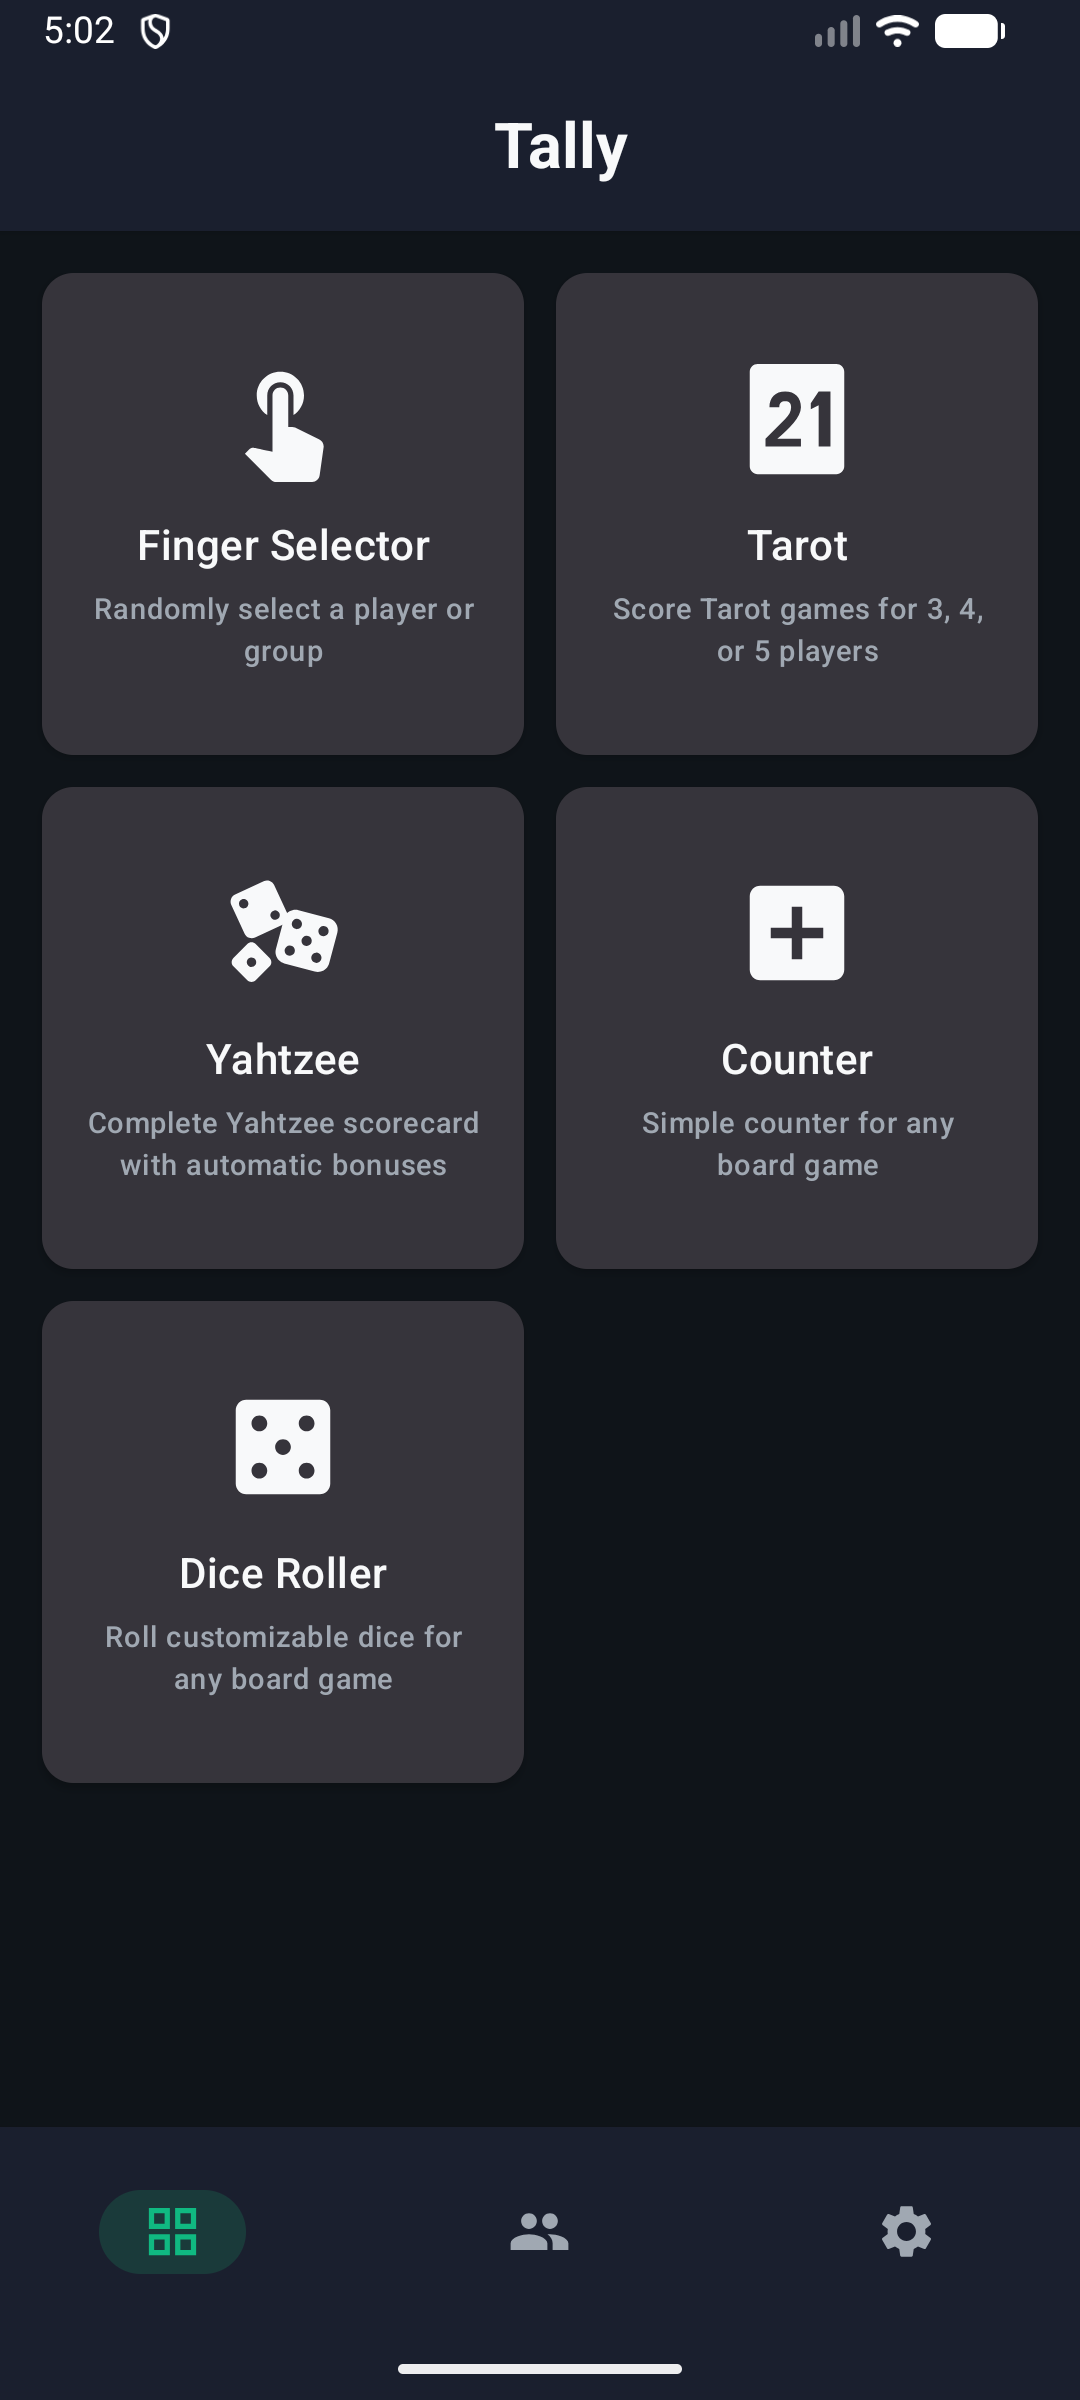
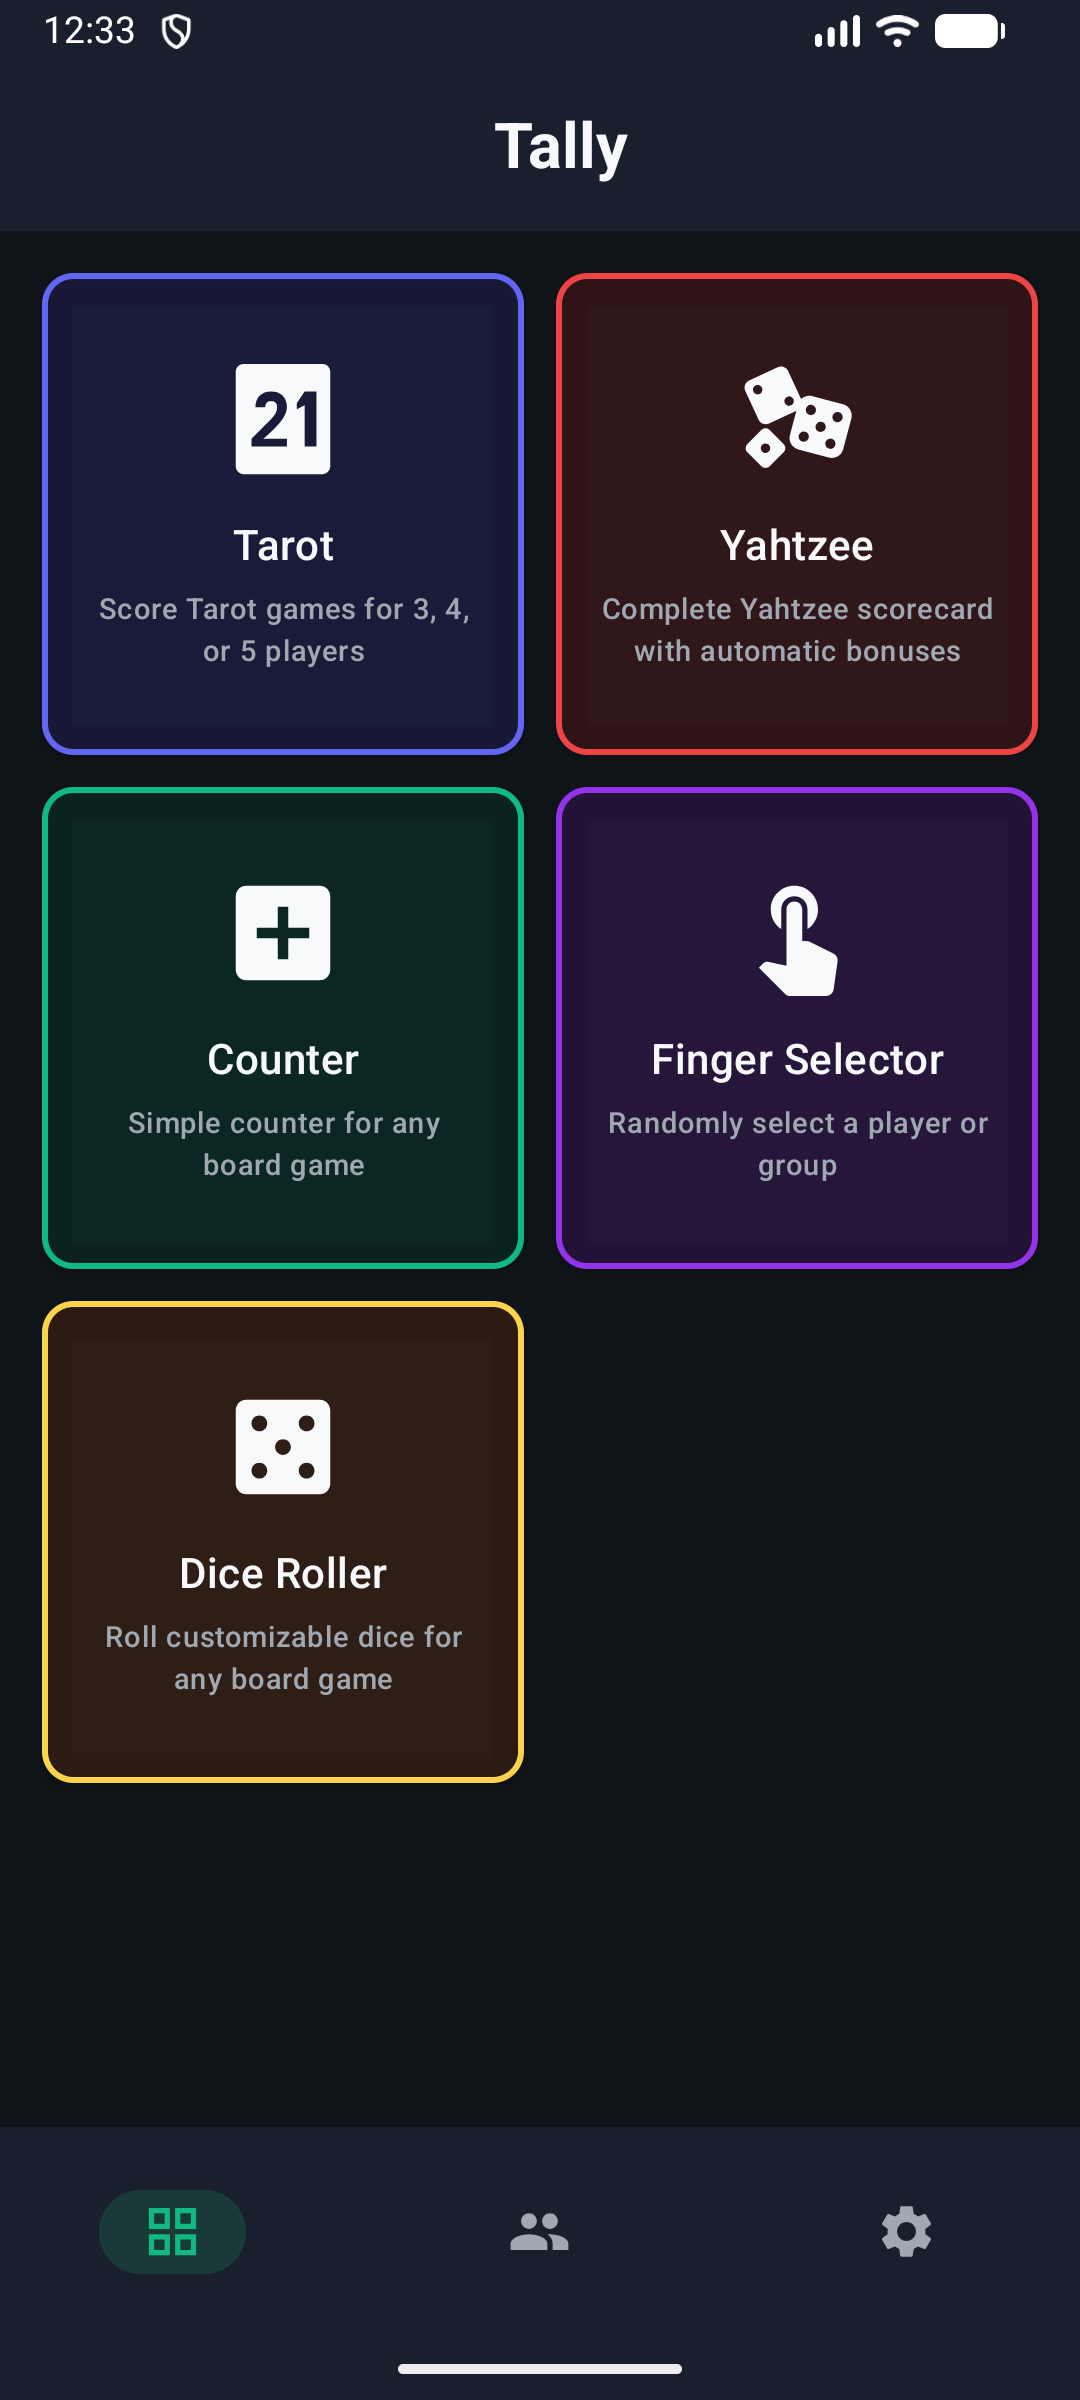
ui: Add colors in the cards of the homescreen

diff --git a/composeApp/src/commonMain/kotlin/io/github/m0nkeysan/tally/ui/screens/home/HomeScreen.kt b/composeApp/src/commonMain/kotlin/io/github/m0nkeysan/tally/ui/screens/home/HomeScreen.kt
@@ -3,6 +3,7 @@ package io.github.m0nkeysan.tally.ui.screens.home
 import androidx.compose.animation.core.animateDpAsState
 import androidx.compose.animation.core.animateFloatAsState
 import androidx.compose.foundation.gestures.detectDragGesturesAfterLongPress
+import androidx.compose.foundation.isSystemInDarkTheme
 import androidx.compose.foundation.layout.Arrangement
 import androidx.compose.foundation.layout.Box
 import androidx.compose.foundation.layout.Column
@@ -17,6 +18,7 @@ import androidx.compose.foundation.lazy.grid.GridCells
 import androidx.compose.foundation.lazy.grid.LazyVerticalGrid
 import androidx.compose.foundation.lazy.grid.itemsIndexed
 import androidx.compose.foundation.lazy.grid.rememberLazyGridState
+import androidx.compose.material3.CardDefaults
 import androidx.compose.material3.CenterAlignedTopAppBar
 import androidx.compose.material3.Icon
 import androidx.compose.material3.MaterialTheme
@@ -33,6 +35,7 @@ import androidx.compose.ui.Modifier
 import androidx.compose.ui.draw.scale
 import androidx.compose.ui.draw.shadow
 import androidx.compose.ui.geometry.Offset
+import androidx.compose.ui.graphics.Color
 import androidx.compose.ui.graphics.graphicsLayer
 import androidx.compose.ui.input.pointer.pointerInput
 import androidx.compose.ui.text.font.FontWeight
@@ -66,6 +69,7 @@ import io.github.m0nkeysan.tally.ui.components.GameCard
 import io.github.m0nkeysan.tally.ui.components.TarotIcon
 import io.github.m0nkeysan.tally.ui.components.YahtzeeIcon
 import org.jetbrains.compose.resources.stringResource
+import io.github.m0nkeysan.tally.core.domain.model.AppTheme as AppThemeModel
 
 @Composable
 fun HomeScreen(
@@ -74,6 +78,13 @@ fun HomeScreen(
     viewModel: HomeViewModel = viewModel { HomeViewModel() }
 ) {
     val cardOrder by viewModel.cardOrder.collectAsState()
+    val themePreference by viewModel.themePreference.collectAsState()
+    
+    val isDarkTheme = when (themePreference) {
+        AppThemeModel.DARK -> true
+        AppThemeModel.LIGHT -> false
+        AppThemeModel.SYSTEM_DEFAULT -> isSystemInDarkTheme()
+    }
 
     var localCardOrder by remember { mutableStateOf<List<String>?>(null) }
 
@@ -239,7 +250,20 @@ fun HomeScreen(
                                     if (draggedItemId == null) {
                                         onNavigateTo(feature.route)
                                     }
-                                }
+                                },
+                                borderColor = if (isDarkTheme) {
+                                    feature.colors.borderDark
+                                } else {
+                                    feature.colors.borderLight
+                                },
+                                backgroundColor = if (isDarkTheme) {
+                                    feature.colors.backgroundDark.copy(alpha = 0.3f)
+                                } else {
+                                    feature.colors.backgroundLight.copy(alpha = 0.2f)
+                                },
+                                elevation = CardDefaults.cardElevation(
+                                    defaultElevation = if (isDarkTheme) 2.dp else 0.dp
+                                )
                             )
                         }
                     }
@@ -249,12 +273,63 @@ fun HomeScreen(
     }
 }
 
+/**
+ * Color scheme for game cards in light and dark themes
+ */
+data class GameColors(
+    val borderLight: Color,
+    val backgroundLight: Color,
+    val borderDark: Color,
+    val backgroundDark: Color
+)
+
+/**
+ * Predefined color schemes for each game card
+ */
+private object GameCardColors {
+    val fingerSelector = GameColors(
+        borderLight = Color(0xFF9333EA),      // Purple-600
+        backgroundLight = Color(0xFFF3E8FF),  // Purple-100
+        borderDark = Color(0xFF9333EA),       // Purple-600
+        backgroundDark = Color(0xFF581C87)    // Purple-900
+    )
+    
+    val tarot = GameColors(
+        borderLight = Color(0xFF4F46E5),      // Indigo-600
+        backgroundLight = Color(0xFFE0E7FF),  // Indigo-100
+        borderDark = Color(0xFF6366F1),       // Indigo-500 (brighter)
+        backgroundDark = Color(0xFF312E81)    // Indigo-900
+    )
+    
+    val yahtzee = GameColors(
+        borderLight = Color(0xFFDC2626),      // Red-600
+        backgroundLight = Color(0xFFFEE2E2),  // Red-100
+        borderDark = Color(0xFFEF4444),       // Red-500 (brighter)
+        backgroundDark = Color(0xFF7F1D1D)    // Red-900
+    )
+    
+    val counter = GameColors(
+        borderLight = Color(0xFF10B981),      // Emerald-500
+        backgroundLight = Color(0xFFD1FAE5),  // Emerald-100
+        borderDark = Color(0xFF10B981),       // Emerald-500
+        backgroundDark = Color(0xFF064E3B)    // Emerald-900
+    )
+    
+    val diceRoller = GameColors(
+        borderLight = Color(0xFFF59E0B),      // Amber-500
+        backgroundLight = Color(0xFFFEF3C7),  // Amber-100
+        borderDark = Color(0xFFFCD34D),       // Amber-400 (brighter)
+        backgroundDark = Color(0xFF78350F)    // Amber-900
+    )
+}
+
 data class GameFeature(
     val id: String,
     val icon: @Composable () -> Unit,
     val title: String,
     val description: String,
-    val route: Route
+    val route: Route,
+    val colors: GameColors
 )
 
 @Composable
@@ -272,21 +347,24 @@ private fun getGameFeatureMap() = mapOf(
         },
         title = stringResource(Res.string.home_title_finger_selector),
         description = stringResource(Res.string.desc_finger_selector),
-        route = FingerSelectorRoute
+        route = FingerSelectorRoute,
+        colors = GameCardColors.fingerSelector
     ),
     "tarot" to GameFeature(
         id = "tarot",
         icon = { TarotIcon() },
         title = stringResource(Res.string.game_tarot),
         description = stringResource(Res.string.desc_tarot),
-        route = TarotRoute
+        route = TarotRoute,
+        colors = GameCardColors.tarot
     ),
     "yahtzee" to GameFeature(
         id = "yahtzee",
         icon = { YahtzeeIcon() },
         title = stringResource(Res.string.game_yahtzee),
         description = stringResource(Res.string.desc_yahtzee),
-        route = YahtzeeRoute
+        route = YahtzeeRoute,
+        colors = GameCardColors.yahtzee
     ),
     "counter" to GameFeature(
         id = "counter",
@@ -301,7 +379,8 @@ private fun getGameFeatureMap() = mapOf(
         },
         title = stringResource(Res.string.game_counter),
         description = stringResource(Res.string.desc_counter),
-        route = CounterRoute
+        route = CounterRoute,
+        colors = GameCardColors.counter
     ),
     "dice_roller" to GameFeature(
         id = "dice_roller",
@@ -316,6 +395,7 @@ private fun getGameFeatureMap() = mapOf(
         },
         title = stringResource(Res.string.game_dice),
         description = stringResource(Res.string.desc_dice),
-        route = DiceRollerRoute
+        route = DiceRollerRoute,
+        colors = GameCardColors.diceRoller
     )
 )

diff --git a/composeApp/src/commonMain/kotlin/io/github/m0nkeysan/tally/ui/components/GameCard.kt b/composeApp/src/commonMain/kotlin/io/github/m0nkeysan/tally/ui/components/GameCard.kt
@@ -1,5 +1,6 @@
 package io.github.m0nkeysan.tally.ui.components
 
+import androidx.compose.foundation.border
 import androidx.compose.foundation.clickable
 import androidx.compose.foundation.layout.Arrangement
 import androidx.compose.foundation.layout.Box
@@ -15,12 +16,14 @@ import androidx.compose.material.icons.Icons
 import androidx.compose.material.icons.filled.Casino
 import androidx.compose.material3.Card
 import androidx.compose.material3.CardDefaults
+import androidx.compose.material3.CardElevation
 import androidx.compose.material3.Icon
 import androidx.compose.material3.MaterialTheme
 import androidx.compose.material3.Text
 import androidx.compose.runtime.Composable
 import androidx.compose.ui.Alignment
 import androidx.compose.ui.Modifier
+import androidx.compose.ui.graphics.Color
 import androidx.compose.ui.text.style.TextAlign
 import androidx.compose.ui.text.style.TextOverflow
 import androidx.compose.ui.tooling.preview.Preview
@@ -37,20 +40,43 @@ import org.jetbrains.compose.resources.stringResource
  * @param title Game title text
  * @param description Game description text
  * @param onClick Callback when card is clicked
+ * @param modifier Optional modifier for the card
+ * @param borderColor Optional border color (null = no border)
+ * @param backgroundColor Optional background color (null = default surface color)
  */
 @Composable
 fun GameCard(
     icon: @Composable () -> Unit,
     title: String,
     description: String,
-    onClick: () -> Unit
+    onClick: () -> Unit,
+    modifier: Modifier = Modifier,
+    borderColor: Color? = null,
+    backgroundColor: Color? = null,
+    elevation : CardElevation = CardDefaults.cardElevation()
 ) {
     Card(
-        modifier = Modifier
+        modifier = modifier
             .fillMaxWidth()
             .aspectRatio(1f)
+            .then(
+                if (borderColor != null) {
+                    Modifier.border(
+                        width = 2.dp,
+                        color = borderColor,
+                        shape = MaterialTheme.shapes.medium
+                    )
+                } else Modifier
+            )
             .clickable(onClick = onClick),
-        elevation = CardDefaults.cardElevation(defaultElevation = 2.dp)
+        elevation = elevation,
+        colors = if (backgroundColor != null) {
+            CardDefaults.cardColors(
+                containerColor = backgroundColor
+            )
+        } else {
+            CardDefaults.cardColors()
+        }
     ) {
         Column(
             modifier = Modifier

diff --git a/composeApp/src/commonMain/kotlin/io/github/m0nkeysan/tally/ui/screens/home/HomeViewModel.kt b/composeApp/src/commonMain/kotlin/io/github/m0nkeysan/tally/ui/screens/home/HomeViewModel.kt
@@ -2,10 +2,13 @@ package io.github.m0nkeysan.tally.ui.screens.home
 
 import androidx.lifecycle.ViewModel
 import androidx.lifecycle.viewModelScope
+import io.github.m0nkeysan.tally.core.domain.model.AppTheme
 import io.github.m0nkeysan.tally.platform.PlatformRepositories
 import kotlinx.coroutines.flow.MutableStateFlow
+import kotlinx.coroutines.flow.SharingStarted
 import kotlinx.coroutines.flow.StateFlow
 import kotlinx.coroutines.flow.asStateFlow
+import kotlinx.coroutines.flow.stateIn
 import kotlinx.coroutines.launch
 
 class HomeViewModel : ViewModel() {
@@ -14,6 +17,13 @@ class HomeViewModel : ViewModel() {
 
     private val _cardOrder = MutableStateFlow(defaultCardOrder)
     val cardOrder: StateFlow<List<String>> = _cardOrder.asStateFlow()
+
+    val themePreference: StateFlow<AppTheme> = userPreferencesRepository.getTheme()
+        .stateIn(
+            scope = viewModelScope,
+            started = SharingStarted.WhileSubscribed(5000),
+            initialValue = AppTheme.SYSTEM_DEFAULT
+        )
 
     init {
         loadCardOrder()
